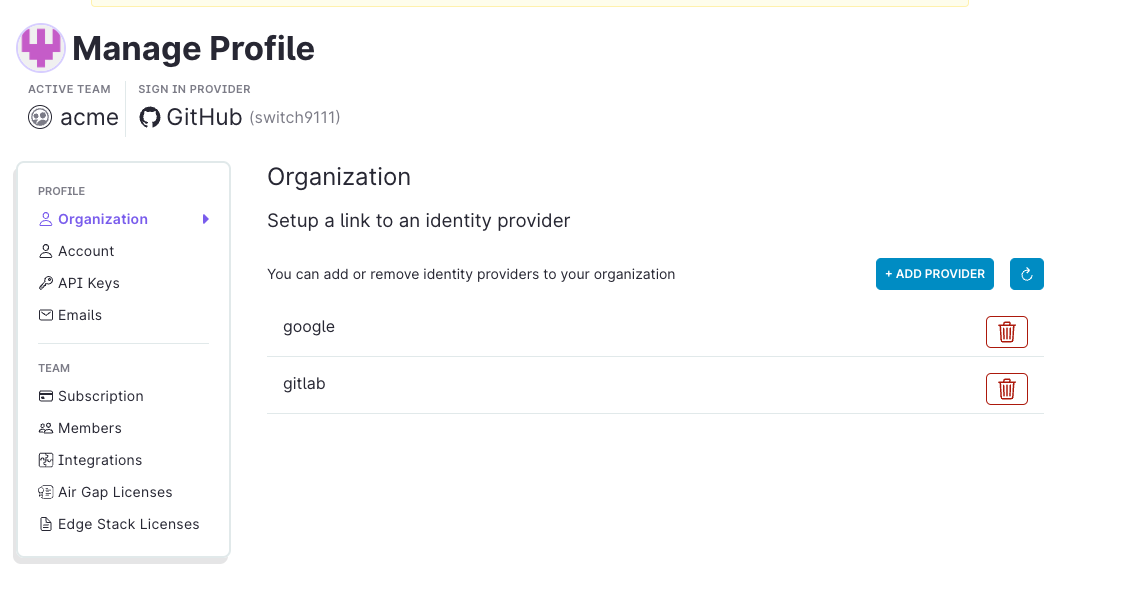
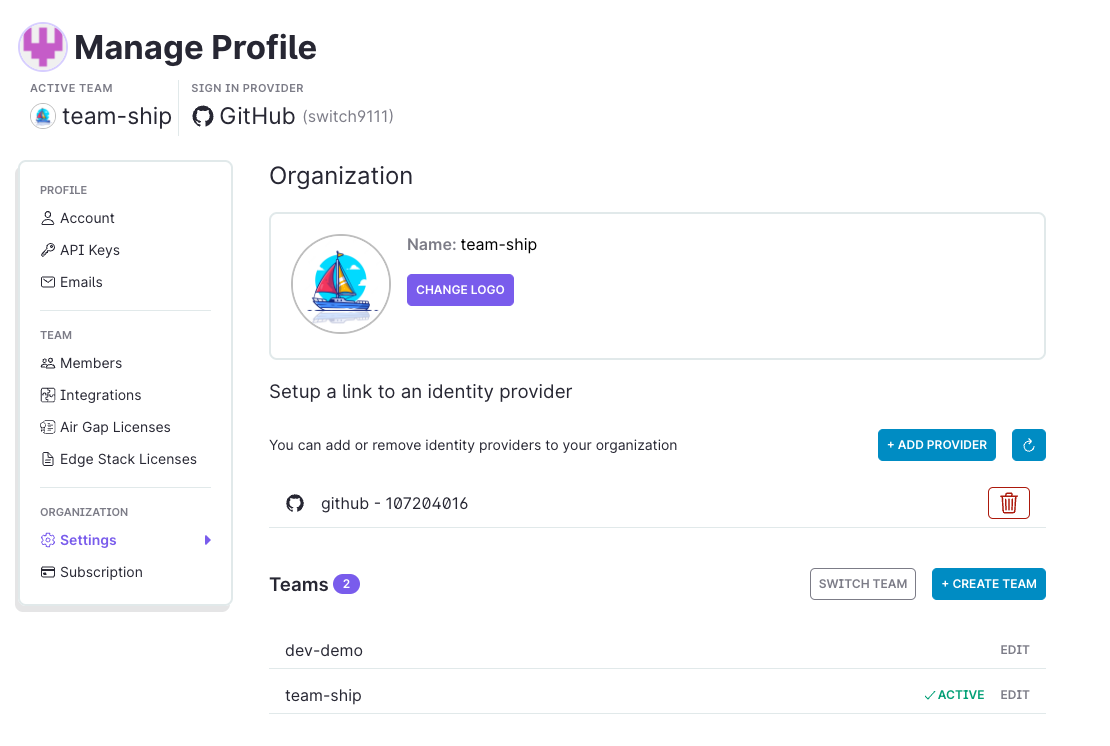
(from getambassador.io) Update images and notice the new per organization billing

diff --git a/docs/cloud/latest/authenticating/index.md b/docs/cloud/latest/authenticating/index.md
@@ -65,7 +65,7 @@ Otherwise, you'll be immediately redirected to the Cloud App.
 
 Once you've created your Ambassador Cloud organization, you can manage which identity providers are linked to it.
 
-Navigate to your `Settings` Page in Ambassador Cloud and select `Organization`.
+Navigate to your `Settings` Page in Ambassador Cloud and select `Organization's settings.`
 
 <br />
 <p style="max-width:600px;margin:0 auto;">
@@ -85,17 +85,13 @@ For example, if you add a GitHub organization, all the users who are part of the
 
 Ambassador Cloud allows you to have many [Teams](/docs/cloud/latest/organization/#Team) within an [Organization](/docs/cloud/latest/organization/#Organization).
 
-To add a new team, navigate to your `Settings` Page in Ambassador Cloud, select `Account` and choose the `Create Team` option. 
+To add a new team, navigate to your `Settings` Page in Ambassador Cloud, and choose the `Organization's settings`.
 
 <br />
 <p style="max-width:600px;margin:0 auto;">
   <img src="../images/authentication-manage-teams.png" alt="Manage teams"/>
 </p>
 <br />
-
-<Alert severity="warning">
-  Each Team within Ambassador Cloud is subject to it's own Licenses. See  <a href="../../subscriptions/howtos/manage-my-subscriptions/">Subscriptions</a> for more information.
-</Alert>
 
 
 A [Team](/docs/cloud/latest/organization/#Team) is a group that users can join within your Organization where clusters will be connected, and give you the ability to use all the features of Ambassador Cloud. 

diff --git a/docs/cloud/latest/subscriptions/howtos/manage-my-subscriptions.md b/docs/cloud/latest/subscriptions/howtos/manage-my-subscriptions.md
@@ -2,10 +2,15 @@
 title: "Managing Ambassador Labs subscriptions | Ambassador Cloud"
 description: "Depending on your needs, Ambassador Labs has subscription plans for all sizes of companies and applications. Find the plan that works best for your team."
 ---
+import Alert from '@material-ui/lab/Alert';
 
 # Manage my subscriptions
 
 Ambassador Labs provides a variety of different subscription options depending on your needs. Whether you're working with a small team with a few developers or a company with a large number of services, Ambassador Labs has flexible subscription options for you to chose from. 
+
+<Alert severity="info">
+  A subscription is valid for the entire organization, and all the teams which are part of it.
+</Alert>
 
 ## Check or upgrade your subscription
 
